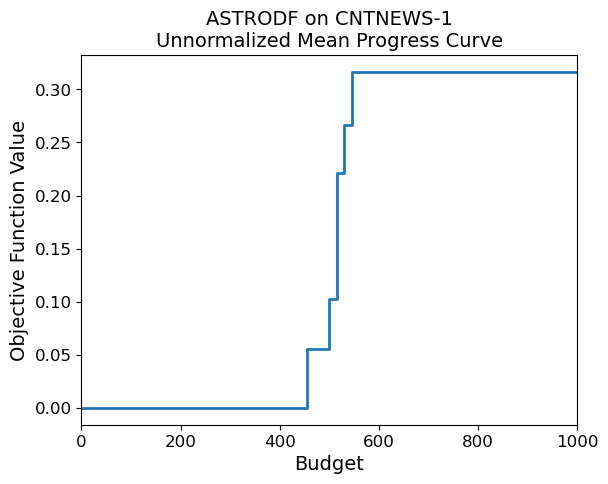
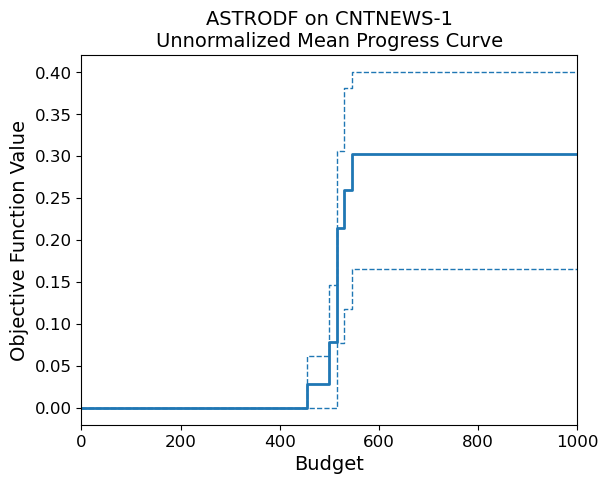
fix bugs with bootstrapping in plotting of aggregated progress curves
Test cases w/ and w/o normalization, all-in-one, printing halfwidths, etc.

diff --git a/simopt/wrapper_base.py b/simopt/wrapper_base.py
@@ -380,7 +380,7 @@ class Experiment(object):
         # Run n_macroreps of the solver on the problem.
         # Report recommended solutions and corresponding intermediate budgets.
         for mrep in range(self.n_macroreps):
-            print("Running macroreplication " + str(mrep + 1) + " of " + str(self.n_macroreps) + ".")
+            print(f"Running macroreplication {mrep + 1} of {self.n_macroreps} of Solver {self.solver.name} on Problem {self.problem.name}.")
             # Create, initialize, and attach RNGs used for simulating solutions.
             progenitor_rngs = [MRG32k3a(s_ss_sss_index=[mrep + 2, ss, 0]) for ss in range(self.problem.oracle.n_rngs)]
             self.solver.solution_progenitor_rngs = progenitor_rngs
@@ -1301,7 +1301,8 @@ def bootstrap_procedure(experiments, n_bootstraps, plot_type, beta=None, solve_t
     """
     Parameters
     ----------
-    experiments : 
+    experiments : list of list of wrapper_base.Experiment objects
+        experiments of different solvers and/or problems
     n_bootstraps : int > 0
         number of times to generate a bootstrap sample of estimated progress curves
     plot_type : string
@@ -1334,12 +1335,12 @@ def bootstrap_procedure(experiments, n_bootstraps, plot_type, beta=None, solve_t
     # Stream 1 dedicated for bootstrapping.
     bootstrap_rng = MRG32k3a(s_ss_sss_index=[1, 0, 0])
     # Obtain n_bootstrap replications.
-    bootstrap_replications = [] * n_bootstraps
+    bootstrap_replications = []
     for bs_index in range(n_bootstraps):
         # Generate bootstrap sample of estimated objective/progress curves.
         bootstrap_curves = bootstrap_sample_all(experiments, bootstrap_rng=bootstrap_rng, normalize=normalize)
         # Apply the functional of the bootstrap sample.
-        bootstrap_replications[bs_index] = functional_of_curves(bootstrap_curves, plot_type, beta=beta, solve_tol=solve_tol)
+        bootstrap_replications.append(functional_of_curves(bootstrap_curves, plot_type, beta=beta, solve_tol=solve_tol))
     # Distinguish cases where functional returns a scalar vs a curve.
     if plot_type in {"area_mean", "area_std_dev", "solve_time_quantile"}:
         # Functional returns a scalar.
@@ -1352,7 +1353,12 @@ def bootstrap_procedure(experiments, n_bootstraps, plot_type, beta=None, solve_t
         bs_CI_ubs = []
         for budget in unique_budgets:
             bootstrap_subreplications = [curve.lookup(x=budget) for curve in bootstrap_replications]
-            bs_CI_lower_bound, bs_CI_upper_bound = compute_bootstrap_CI(bootstrap_subreplications, conf_level=0.95, bias_correction=True, overall_estimator=estimator)
+            sub_estimator = estimator.lookup(x=budget)
+            bs_CI_lower_bound, bs_CI_upper_bound = compute_bootstrap_CI(bootstrap_subreplications,
+                                                                        conf_level=0.95,
+                                                                        bias_correction=True,
+                                                                        overall_estimator=sub_estimator
+                                                                        )
             bs_CI_lbs.append(bs_CI_lower_bound)
             bs_CI_ubs.append(bs_CI_upper_bound)
         bs_CI_lower_bounds = Curve(x_vals=unique_budgets, y_vals=bs_CI_lbs)
@@ -1397,7 +1403,7 @@ def functional_of_curves(bootstrap_curves, plot_type, beta=0.5, solve_tol=0.1):
         functional = mean_of_curves(bootstrap_curves[0][0])
     elif plot_type == "quantile":
         # Single experiment --> returns a curve.
-        functional = quantile_of_curves(bootstrap_curves[0][0], q=beta)
+        functional = quantile_of_curves(bootstrap_curves[0][0], beta=beta)
     elif plot_type == "area_mean":
         # Single experiment --> returns a scalar.
         functional = np.mean([curve.compute_area_under_curve for curve in bootstrap_curves[0][0]])
@@ -1516,7 +1522,7 @@ def report_max_halfwidth(curve_pairs, normalize):
     plt.text(x=xloc, y=yloc, s=txt)
 
 
-def plot_progress_curves(experiments, plot_type, beta=0.50, normalize=True, plot_CIs=True, all_in_one=True):
+def plot_progress_curves(experiments, plot_type, beta=0.50, normalize=True, all_in_one=True, plot_CIs=True, print_max_hw=True):
     """
     Plot individual or aggregate progress curves for one or more solvers
     on a single problem.
@@ -1534,10 +1540,12 @@ def plot_progress_curves(experiments, plot_type, beta=0.50, normalize=True, plot
         quantile to plot, e.g., beta quantile
     normalize : bool
         normalize progress curves w.r.t. optimality gaps?
-    plot_CIs : bool
-        plot bootstrapping confidence intervals?
     all_in_one : bool
         plot curves together or separately
+    plot_CIs : bool
+        plot bootstrapping confidence intervals?
+    print_max_hw : bool
+        print caption with max half-width
     """
     # Check if problems are the same with the same x0 and x*.
     ref_experiment = experiments[0]
@@ -1561,6 +1569,8 @@ def plot_progress_curves(experiments, plot_type, beta=0.50, normalize=True, plot
                      beta=beta
                      )
         solver_curve_handles = []
+        if print_max_hw:
+            curve_pairs = []
         for exp_idx in range(n_experiments):
             experiment = experiments[exp_idx]
             color_str = "C" + str(exp_idx)
@@ -1591,7 +1601,21 @@ def plot_progress_curves(experiments, plot_type, beta=0.50, normalize=True, plot
             else:
                 print("Not a valid plot type.")
             solver_curve_handles.append(handle)
+            if plot_CIs:
+                # Note: "experiments" needs to be a list of list of Experiments.
+                bs_CI_lb_curve, bs_CI_ub_curve = bootstrap_procedure(experiments=[[experiment]],
+                                                                     n_bootstraps=100,
+                                                                     plot_type=plot_type,
+                                                                     beta=beta,
+                                                                     estimator=estimator,
+                                                                     normalize=normalize
+                                                                     )
+                plot_bootstrap_CIs(bs_CI_lb_curve, bs_CI_ub_curve, color_str=color_str)
+                if print_max_hw:
+                    curve_pairs.append([bs_CI_lb_curve, bs_CI_ub_curve])
         plt.legend(handles=solver_curve_handles, labels=[experiment.solver.name for experiment in experiments], loc="upper right")
+        if print_max_hw:
+            report_max_halfwidth(curve_pairs=curve_pairs, normalize=normalize)
         save_plot(solver_name="SOLVER SET",
                   problem_name=ref_experiment.problem.name,
                   plot_type=plot_type,
@@ -1630,21 +1654,26 @@ def plot_progress_curves(experiments, plot_type, beta=0.50, normalize=True, plot
                 estimator.plot()
             else:
                 print("Not a valid plot type.")
-            save_plot(solver_name=experiment.solver.name,
-                      problem_name=experiment.problem.name,
-                      plot_type=plot_type,
-                      normalize=normalize
-                      )
             if plot_CIs:
-                bs_CI_lb_curve, bs_CI_ub_curve = bootstrap_procedure(experiments=experiments,
+                # Note: "experiments" needs to be a list of list of Experiments.
+                bs_CI_lb_curve, bs_CI_ub_curve = bootstrap_procedure(experiments=[[experiment]],
                                                                      n_bootstraps=100,
                                                                      plot_type=plot_type,
                                                                      beta=beta,
                                                                      estimator=estimator,
                                                                      normalize=normalize
                                                                      )
+                # print(bs_CI_lb_curve.y_vals)
+                # print(bs_CI_ub_curve.y_vals)
                 plot_bootstrap_CIs(bs_CI_lb_curve, bs_CI_ub_curve)
-                
+                if print_max_hw:
+                    report_max_halfwidth(curve_pairs=[[bs_CI_lb_curve, bs_CI_ub_curve]], normalize=normalize)
+            save_plot(solver_name=experiment.solver.name,
+                      problem_name=experiment.problem.name,
+                      plot_type=plot_type,
+                      normalize=normalize
+                      )
+
 
 def stylize_plot(plot_type, solver_name, problem_name, normalize, budget=None,
                  beta=None):

diff --git a/simopt/demo.py b/simopt/demo.py
@@ -1,19 +1,21 @@
-from wrapper_base import Experiment, post_normalize, plot_progress_curves, bootstrap_sample
+from wrapper_base import Experiment, post_normalize, plot_progress_curves
 from rng.mrg32k3a import MRG32k3a
 
 exp1 = Experiment("RNDSRCH", "CNTNEWS-1")
-exp1.run(10)
+exp1.run(5)
 exp1.post_replicate(100)
 
 exp2 = Experiment("ASTRODF", "CNTNEWS-1")
-exp2.run(10)
+exp2.run(5)
 exp2.post_replicate(100)
 
 post_normalize([exp1, exp2], 200)
-bootstrap_rng = MRG32k3a(s_ss_sss_index=[1, 0, 0])
-bootstrap_curves = bootstrap_sample([[exp1, exp2]], bootstrap_rng)
+#bootstrap_rng = MRG32k3a(s_ss_sss_index=[1, 0, 0])
+#bootstrap_curves = bootstrap_sample([[exp1, exp2]], bootstrap_rng)
 
 #plot_progress_curves([exp1, exp2], plot_type="all", all_in_one=False)
 #plot_progress_curves([exp1, exp2], plot_type="mean", all_in_one=False)
 #plot_progress_curves([exp1, exp2], plot_type="quantile", beta=0.9, all_in_one=False)
 #plot_progress_curves([exp1, exp2], plot_type="mean", normalize=False, all_in_one=False)
+plot_progress_curves([exp1, exp2], plot_type="mean", normalize=True, all_in_one=True, print_max_hw=True)
+plot_progress_curves([exp1, exp2], plot_type="quantile", beta=0.9, normalize=True, all_in_one=True, print_max_hw=True)
